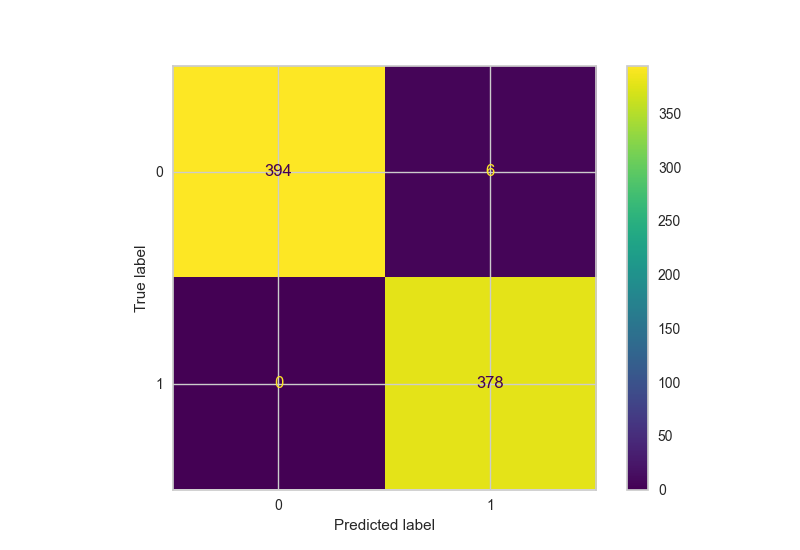
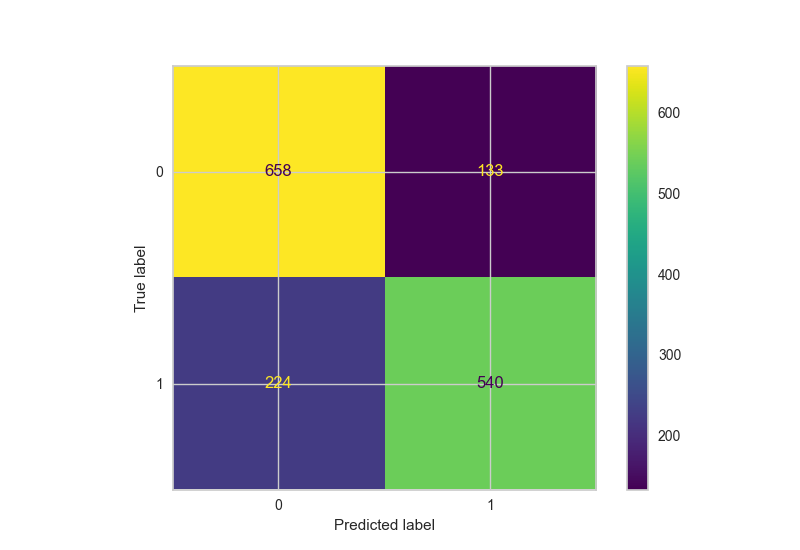
testes

diff --git a/Kfold.py b/Kfold.py
@@ -1,4 +1,5 @@
 from sklearn import metrics
+from sklearn.ensemble import RandomForestClassifier
 from sklearn.model_selection import cross_val_predict, KFold, cross_val_score
 from sklearn.metrics import confusion_matrix, classification_report, accuracy_score, precision_recall_fscore_support
 from yellowbrick.classifier import ConfusionMatrix
@@ -17,8 +18,11 @@ with open('ModelosTreinados/randomForest.pkl', 'rb') as f:
 with open('ModelosTreinados/arvore.pkl', 'rb') as f:
     arvore_carregada = pickle.load(f)
 
-with open('BasePreProcessada/breast.pkl', 'rb') as f:
-    dataset = pickle.load(f)
+# with open('BasePreProcessada/breast.pkl', 'rb') as f:
+#     dataset = pickle.load(f)
+
+with open('BasePreProcessada/breast_rede.pkl', 'rb') as f:
+    dataset = pickle.load(f)    
     # X_treino, X_teste, y_treino, y_teste = pickle.load(f)
 
 with open('ModelosTreinados/tensor.pkl', 'rb') as f:
@@ -100,8 +104,11 @@ def k_fold(k, modelo, dataset):
     print("Intervalo de confiança da precision: ",calcular_media_colunas(precision_values))
 
 # k_fold(10, arvore_carregada, dataset)
-k_fold(10,random_forest,dataset)
+# k_fold(5,random_forest,dataset)
 # k_fold(10,rede_neural,dataset)
+rf = RandomForestClassifier(n_estimators=100, random_state=42)
+# k_fold(5,rf,dataset)
+k_fold(5,rede_neural,dataset)
 # k_fold(10,rede_neural,dataset)
 
 
